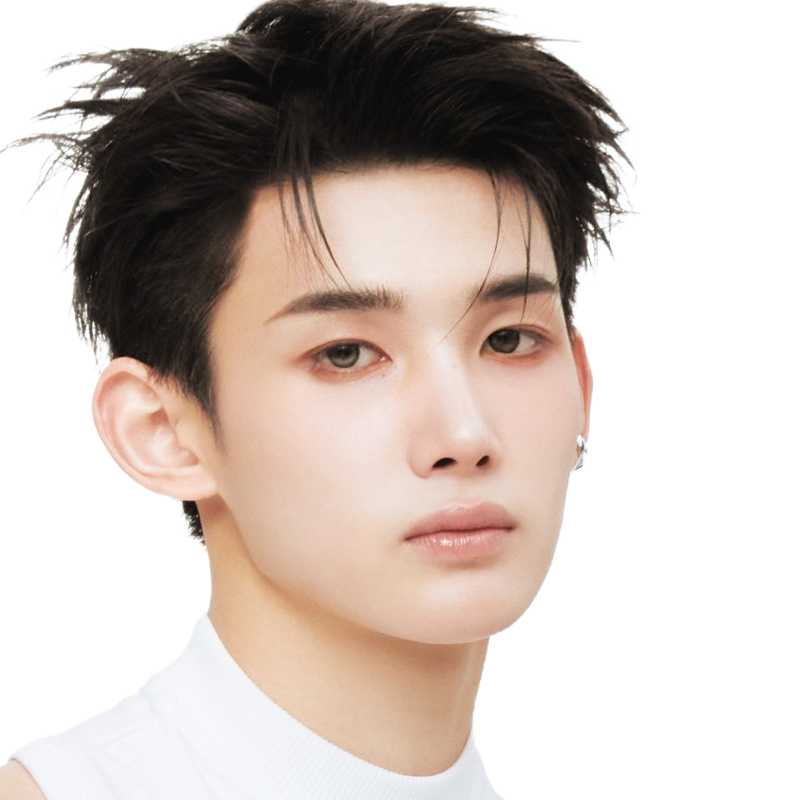
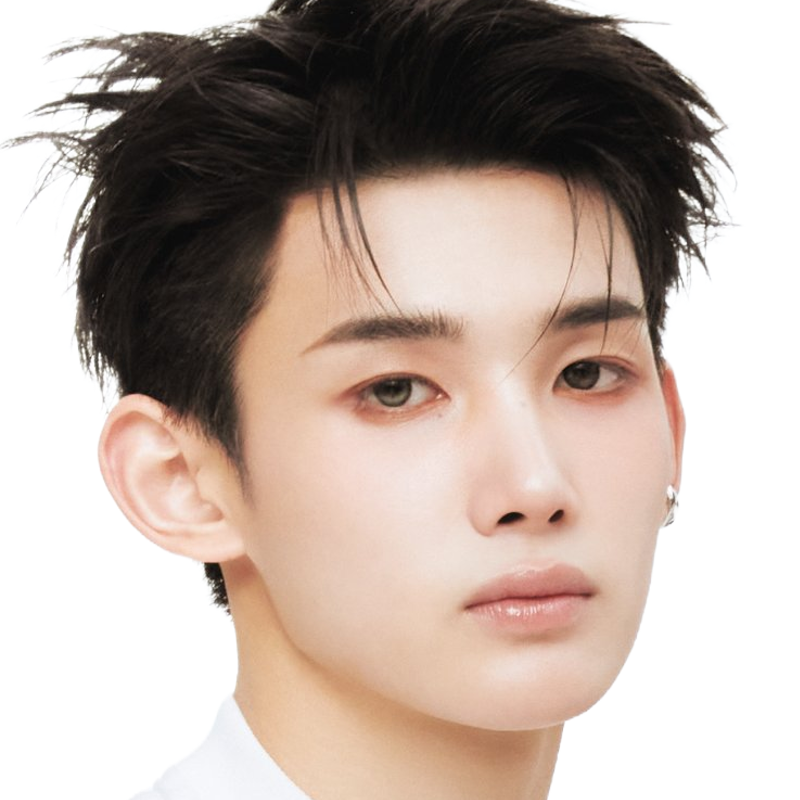
Update Mark on Me photos

diff --git a/js/ranking.js b/js/ranking.js
@@ -4,7 +4,7 @@
 /* ========================================= */
 
 /* Bump when the avatar images change, to bust the browser/Pages cache. */
-const PHOTO_VER = 45;
+const PHOTO_VER = 46;
 window.PHOTO_VER = PHOTO_VER;
 
 const Ranking = {
